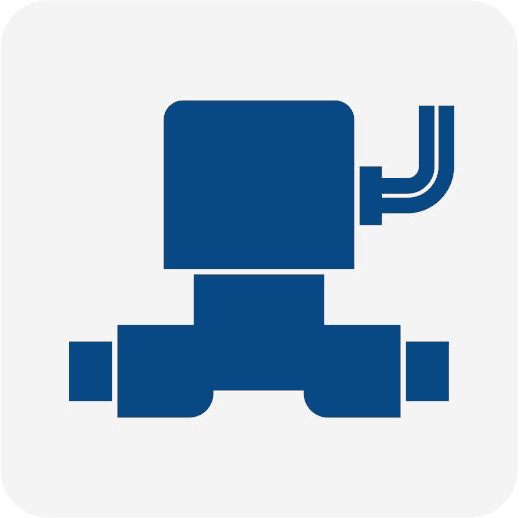
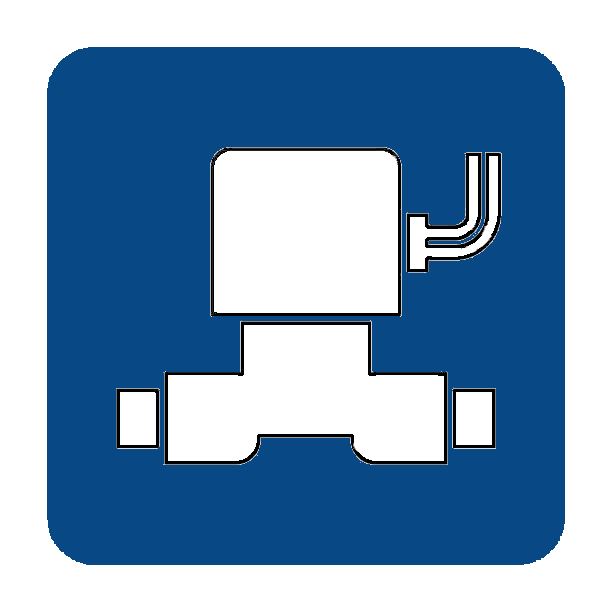
Attivazione immagine ev on nuova

diff --git a/TopLift_Telemetry_WF_Tab.cs b/TopLift_Telemetry_WF_Tab.cs
@@ -295,9 +295,6 @@ public class TopLiftTelemetry_Tab : TabPage
             else if (i == 1) imageContainers[i].Image = Resources.ValvolaOff;
             else if (i == 2) imageContainers[i].Image = Resources.ValvolaOff;
             else if (i == 3) imageContainers[i].Image = Resources.ValvolaOff;
-            //else if (i == 4) imageLabels[i].Text = "PUMP";
-            //else if (i == 5) imageLabels[i].Text = "LS1";
-            //else if (i == 6) imageLabels[i].Text = "LS2";)
             imageRow.Controls.Add(imageContainers[i], i, 0);
 
             // Label sotto l'immagine
@@ -317,6 +314,7 @@ public class TopLiftTelemetry_Tab : TabPage
 
             // Stato iniziale (false)
             imageStates[i] = false;
+            imageStates[0] = true;
             UpdateImageDisplay(i);
         }
 
